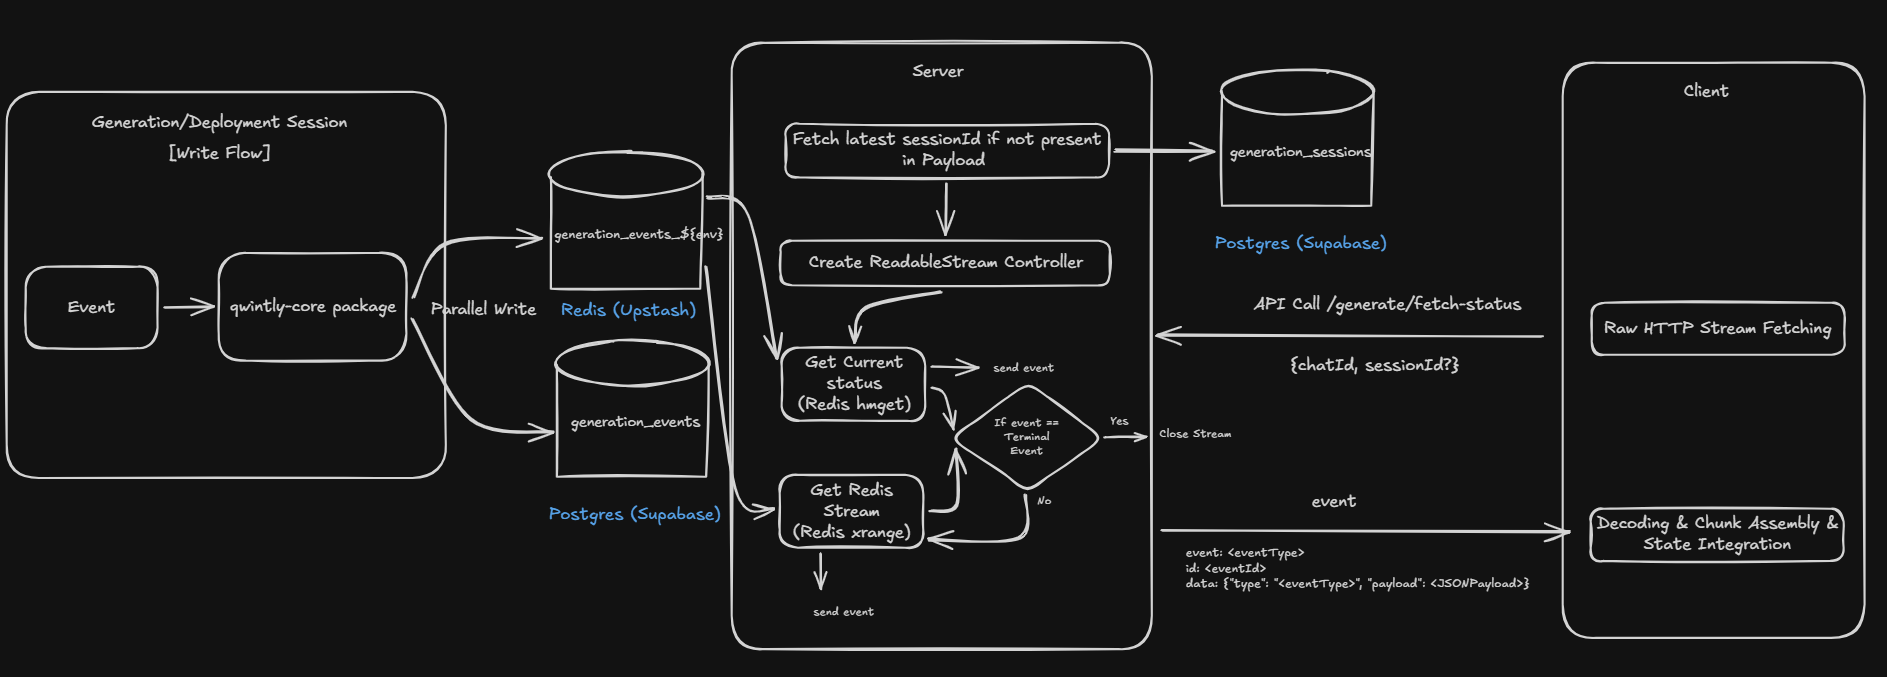
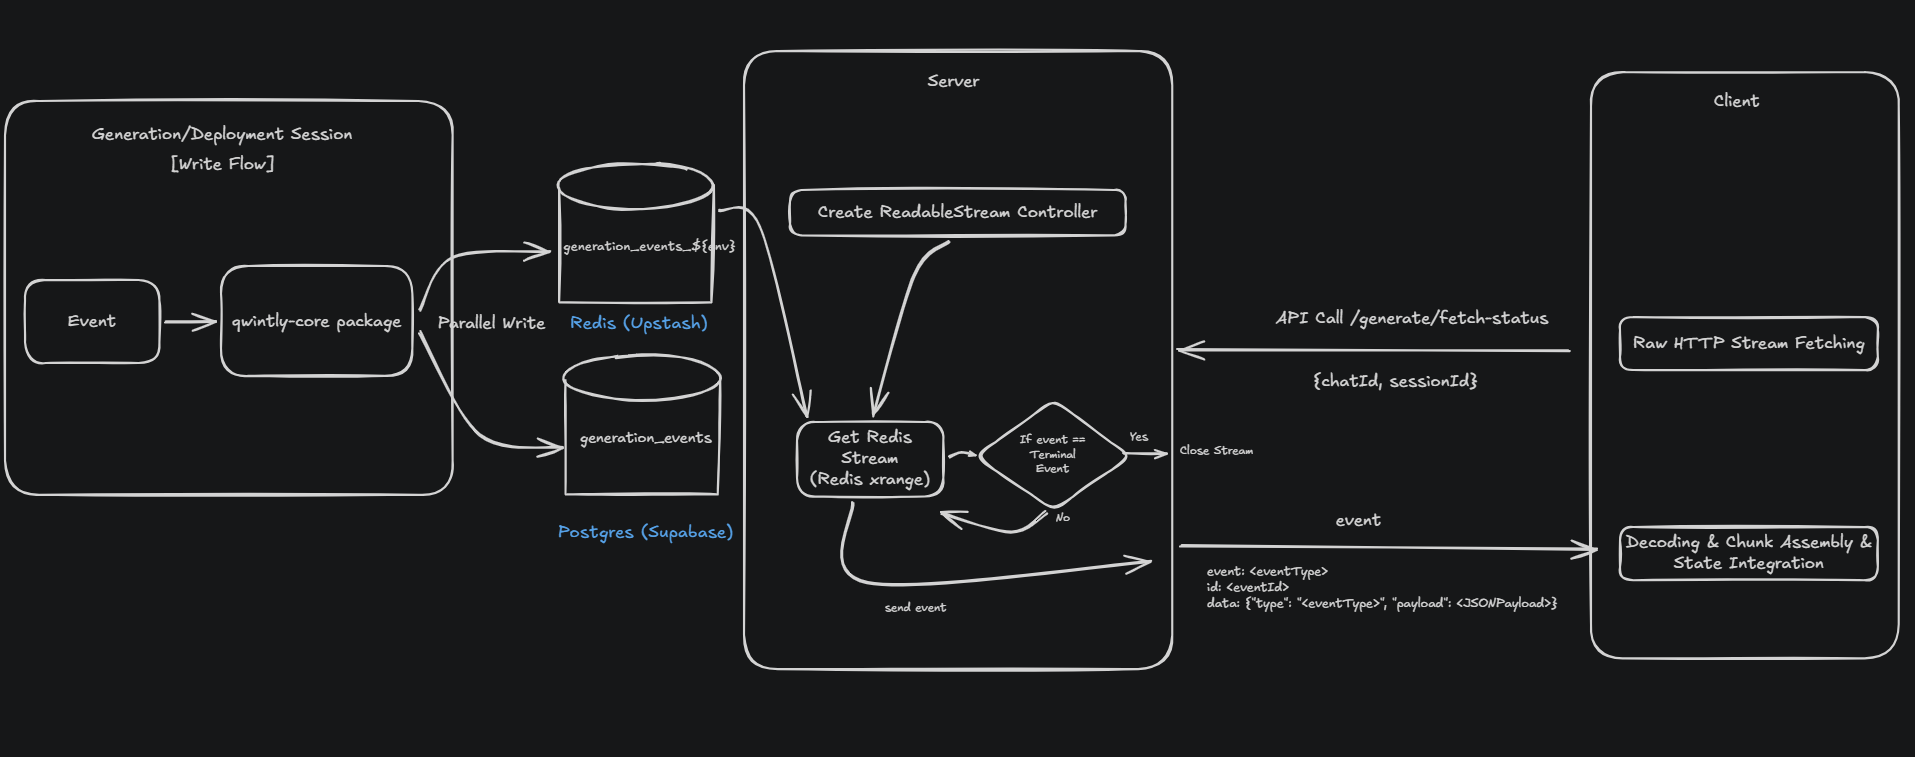
status updates sync

diff --git a/src/config/apiEndpoints.ts b/src/config/apiEndpoints.ts
@@ -410,7 +410,7 @@ data: {"type":"done","agentMessageId":"msg_agent_001","response":"Full agent pla
     parameters: [
       { name: "Authorization", type: "string", location: "header", required: true, description: "Bearer <Supabase_JWT_Token>" },
       { name: "chatId", type: "string", location: "query", required: true, description: "The unique chat thread identifier." },
-      { name: "sessionId", type: "string", location: "query", required: false, description: "Optional specific session ID to filter." }
+      { name: "sessionId", type: "string", location: "query", required: true, description: "The specific session ID to filter." }
     ],
     responseBody: `event: message
 data: {"status":"generating","percentage":45,"step":"Generating components...","logs":["Writing index.html","Creating main.css"]}`
